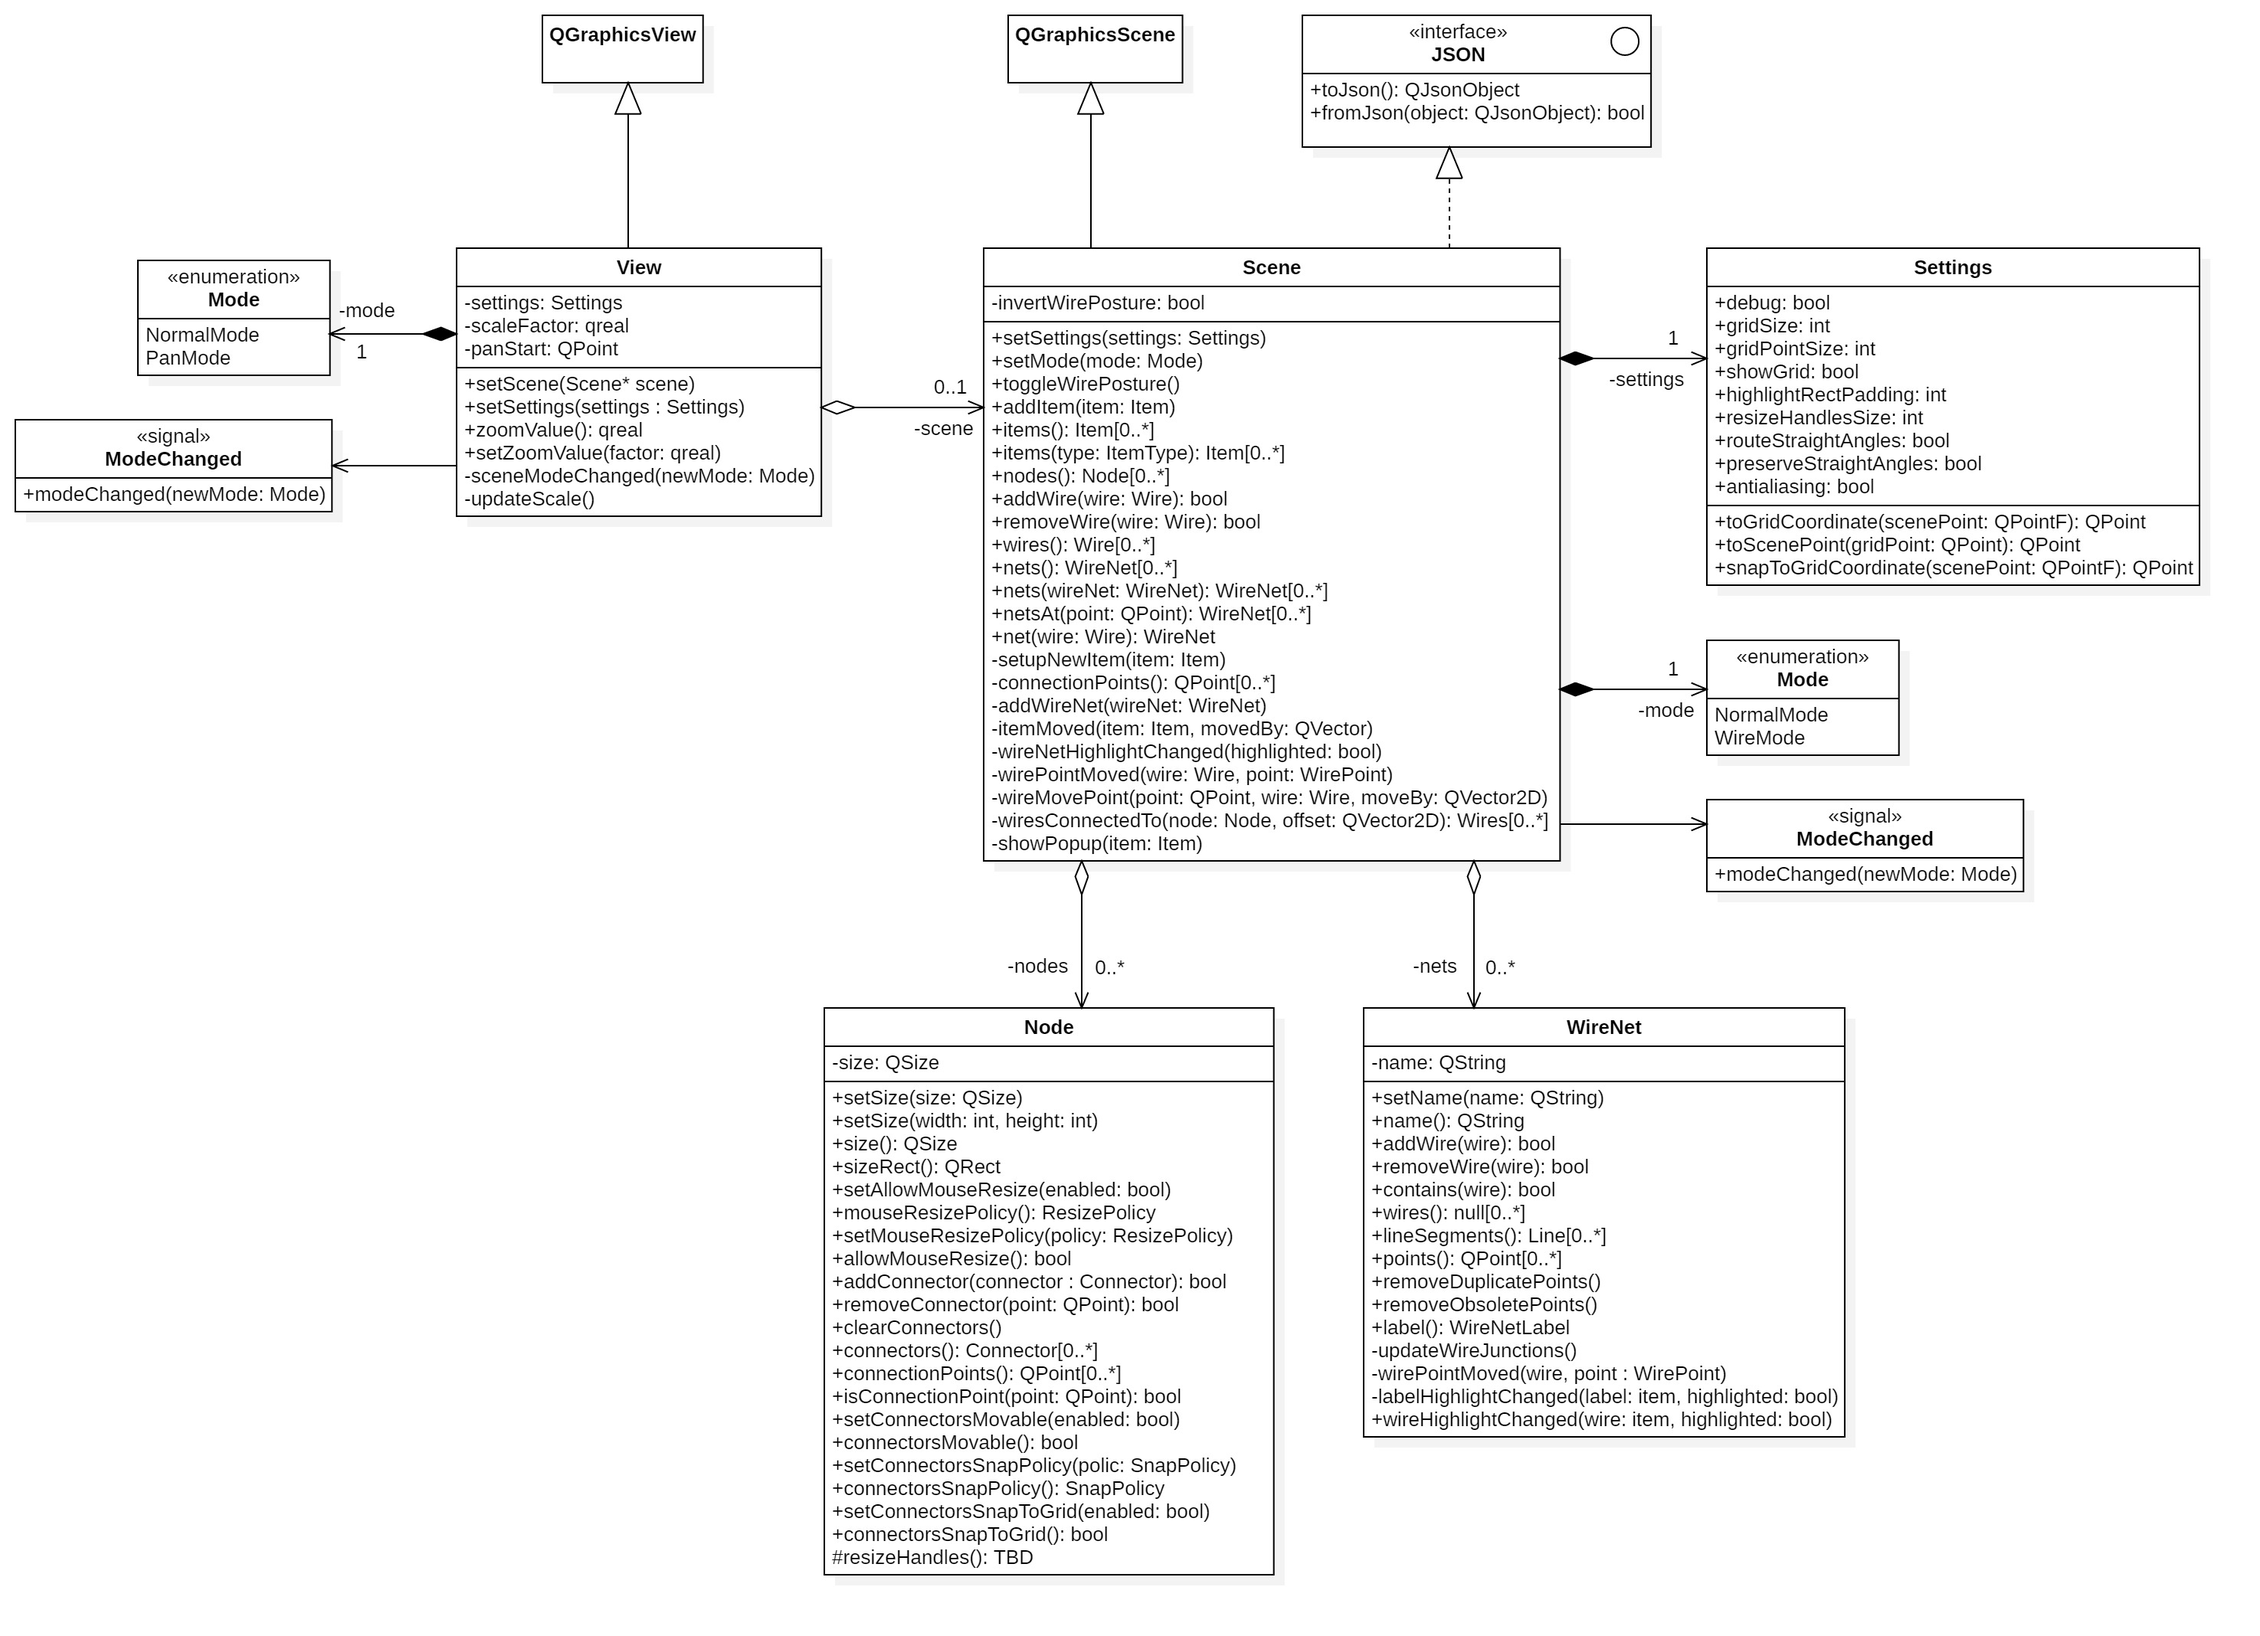
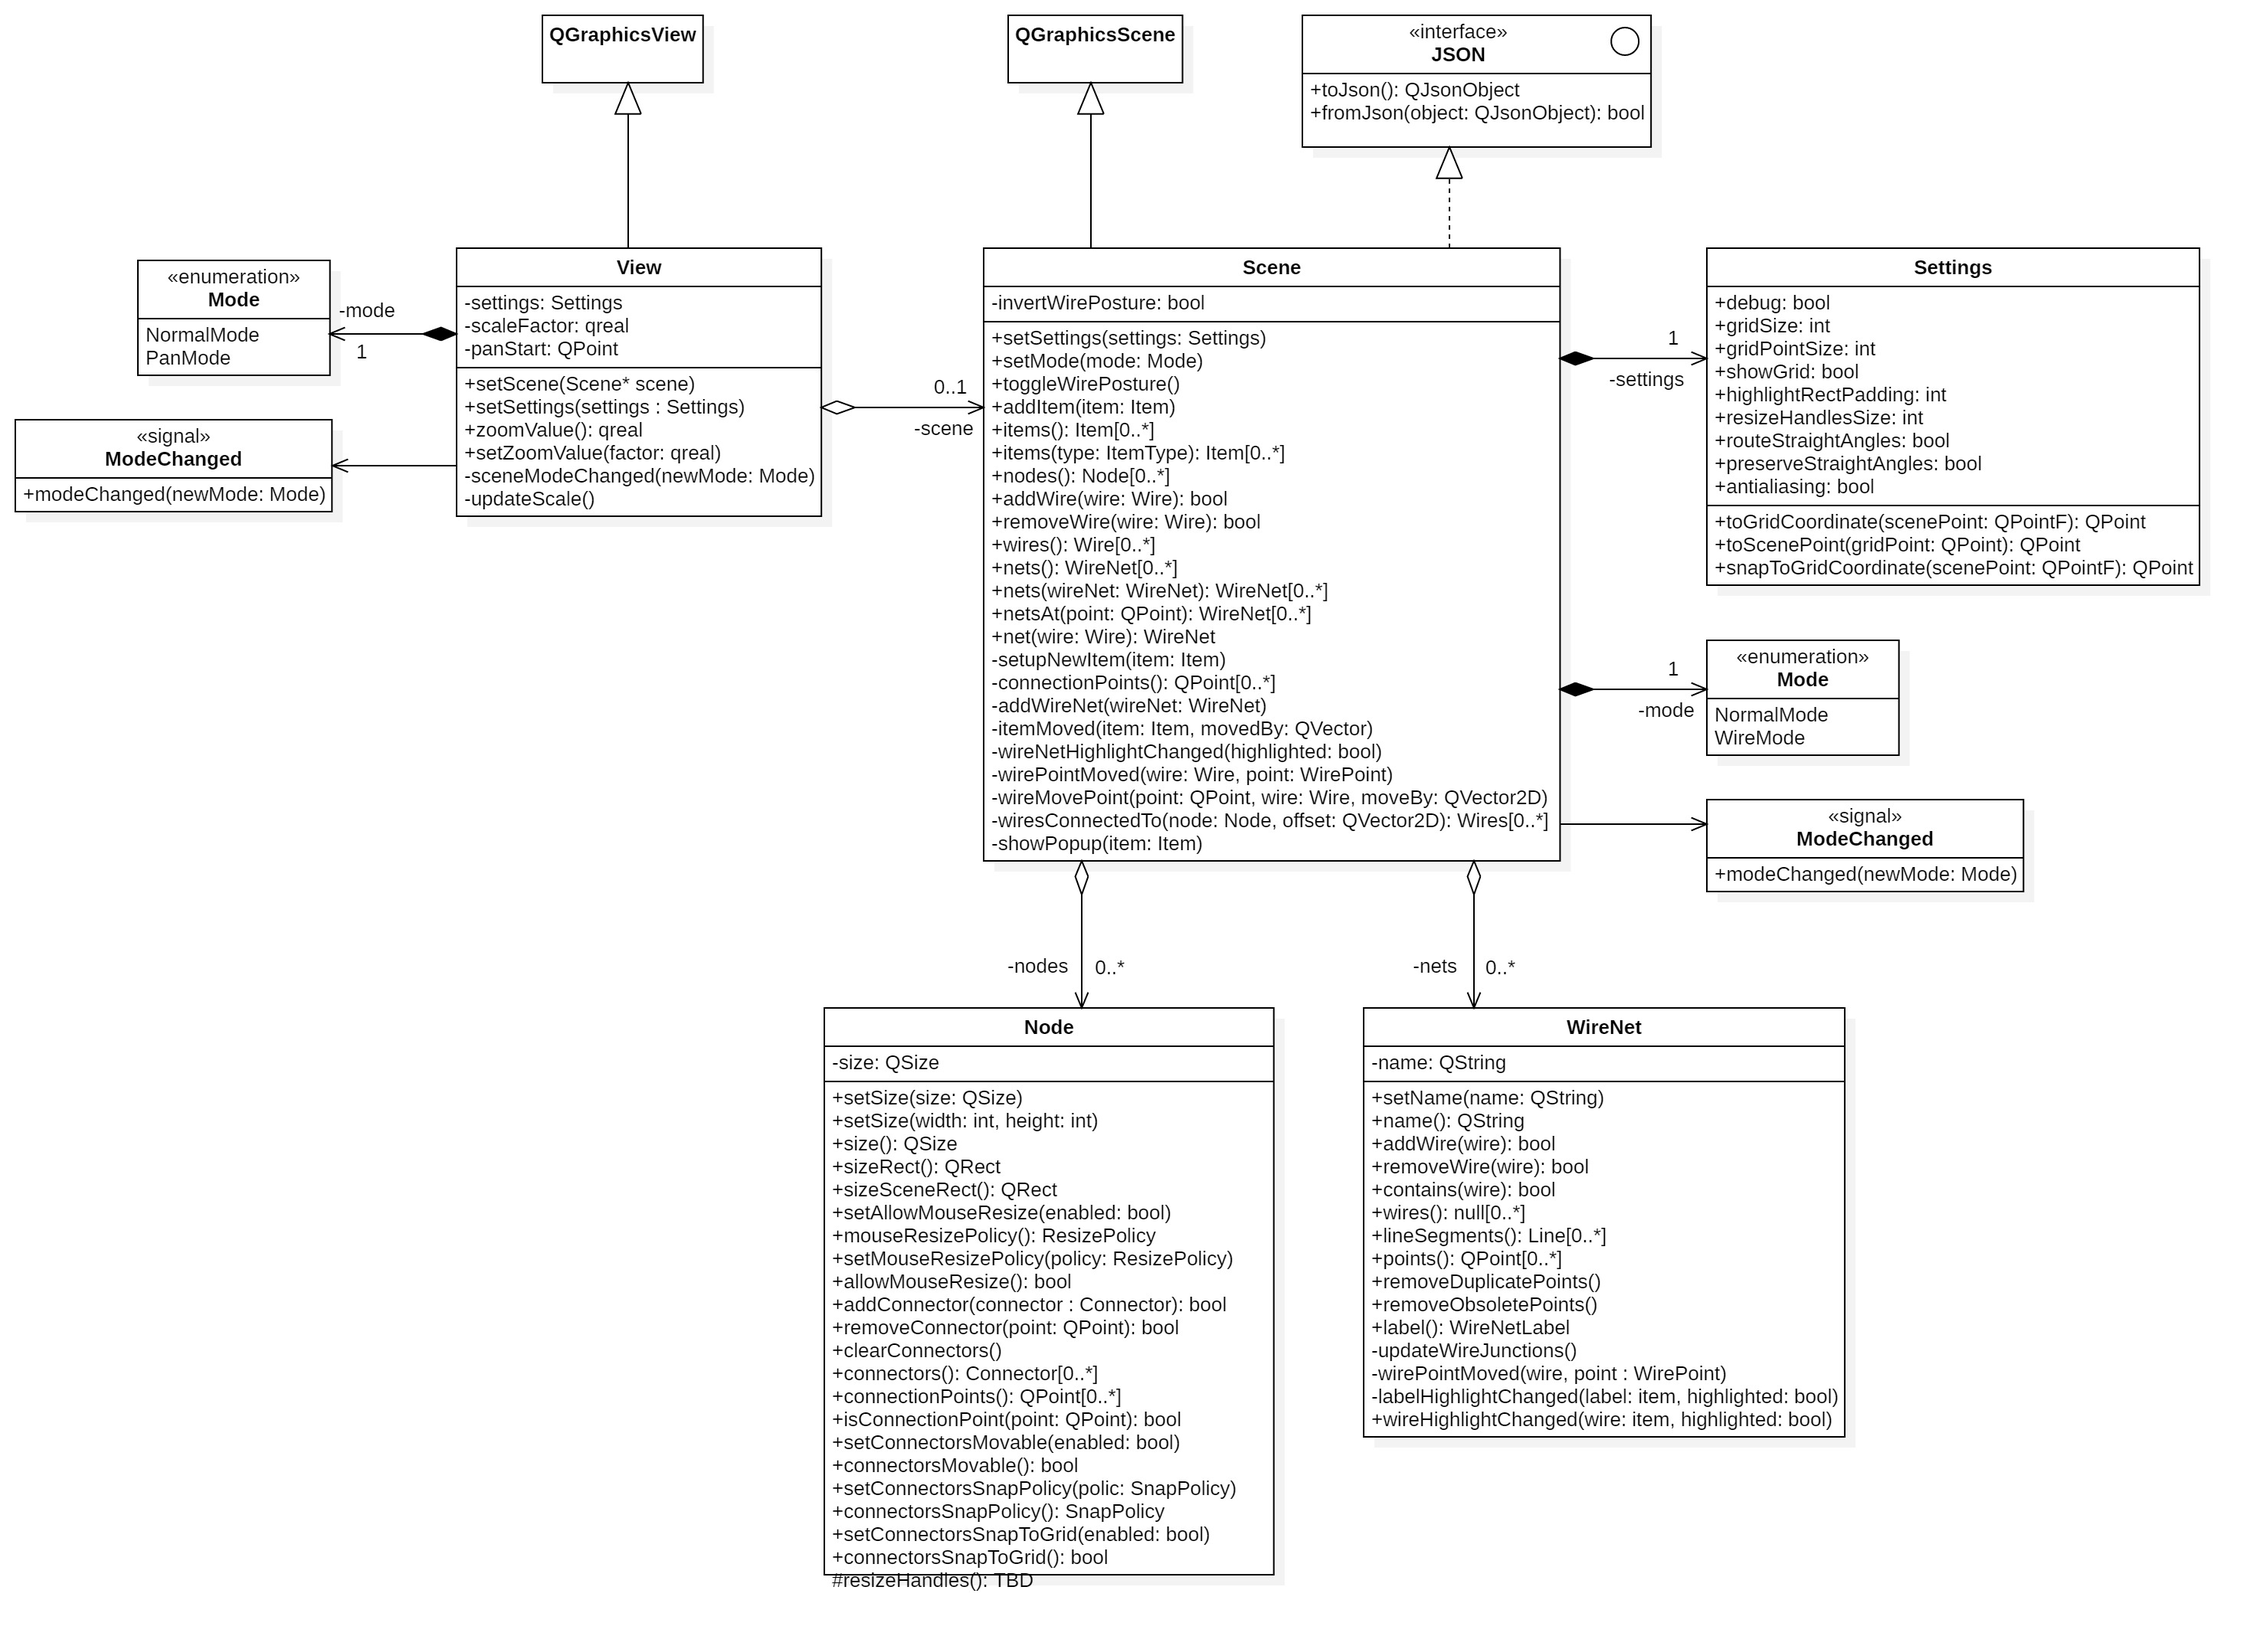
Add Node::sizeSceneRect()

Changed region(s): [[0.3742, 0.7107, 0.5614, 0.9888]]

diff --git a/lib/items/node.h b/lib/items/node.h
@@ -36,6 +36,7 @@ namespace QSchematic {
         void setSize(int width, int height);
         QSize size() const;
         QRect sizeRect() const;
+        QRect sizeSceneRect() const;
         void setMouseResizePolicy(ResizePolicy policy);
         ResizePolicy mouseResizePolicy() const;
         void setAllowMouseResize(bool enabled);

diff --git a/lib/items/node.cpp b/lib/items/node.cpp
@@ -57,6 +57,11 @@ QRect Node::sizeRect() const
     return QRect(0, 0, _size.width(), _size.height());
 }
 
+QRect Node::sizeSceneRect() const
+{
+    return QRect(0, 0, _size.width()*_settings.gridSize, _size.height()*_settings.gridSize);
+}
+
 void Node::setMouseResizePolicy(ResizePolicy policy)
 {
     _mouseResizePolicy = policy;
